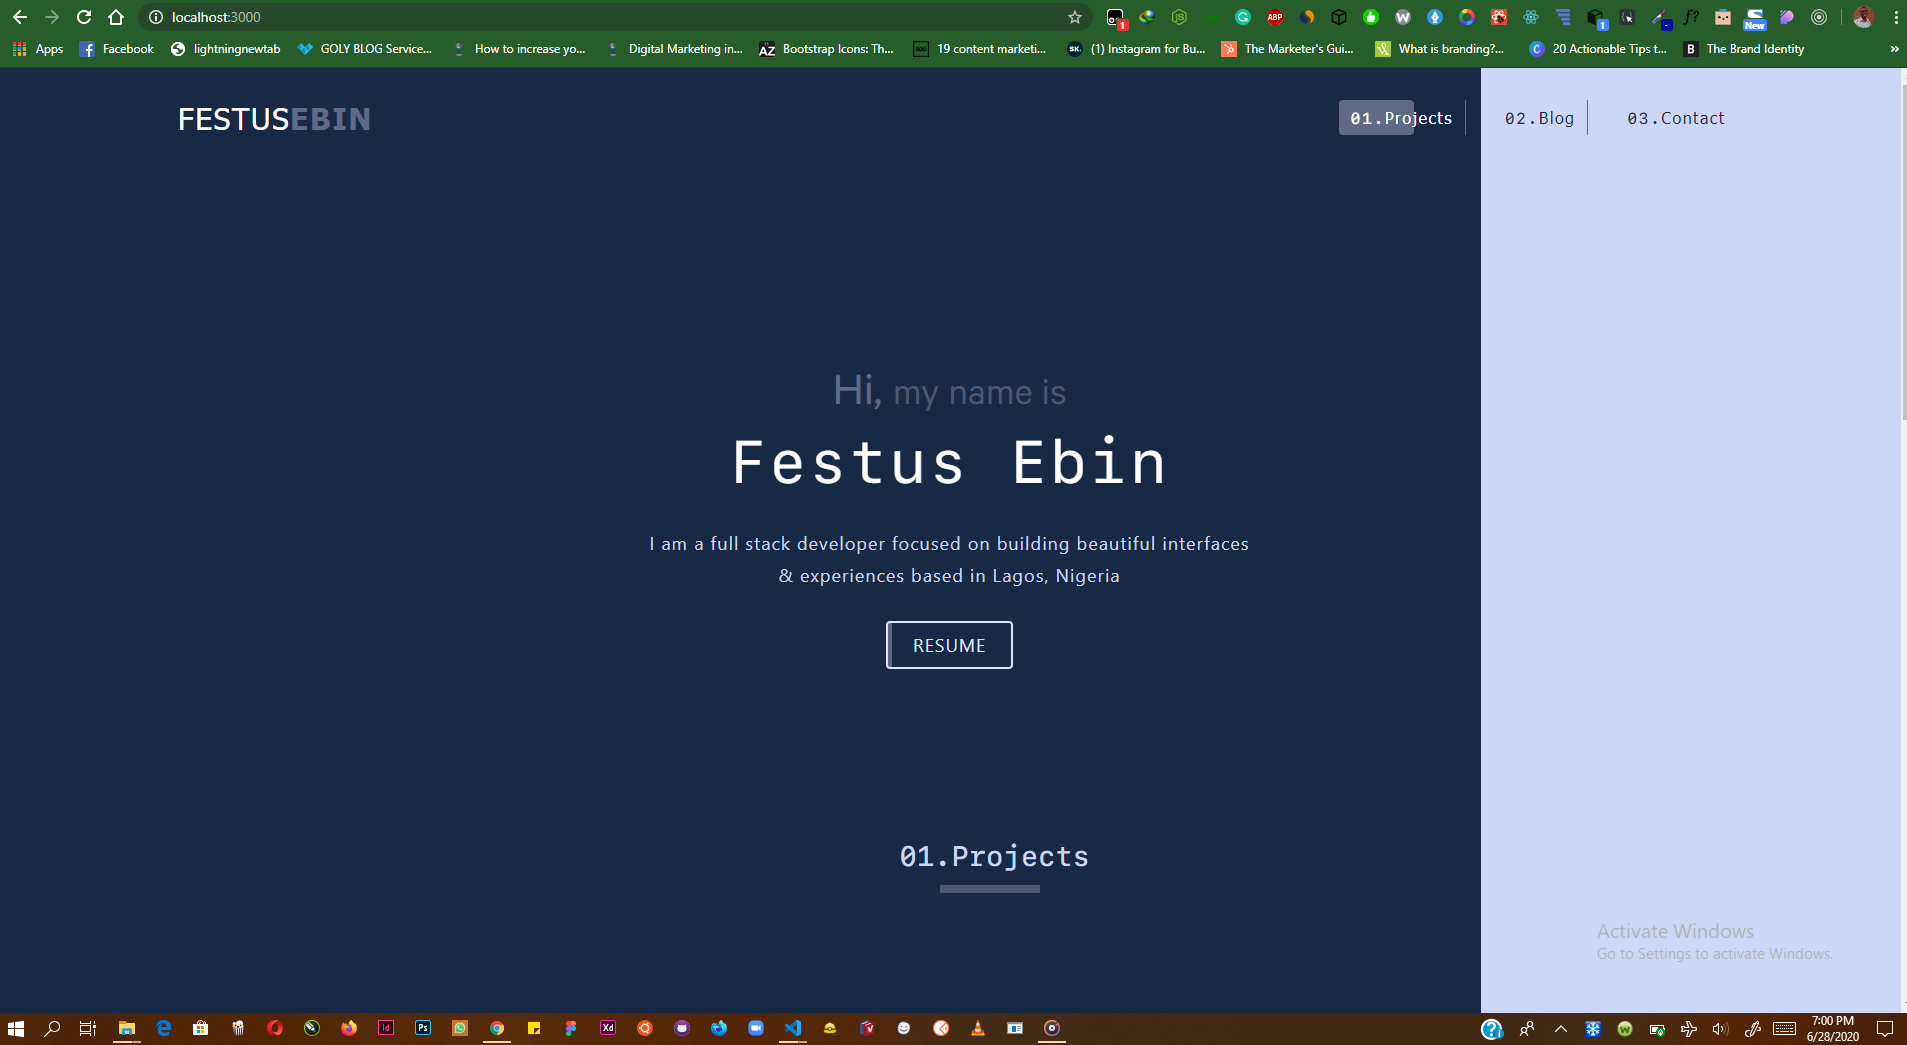
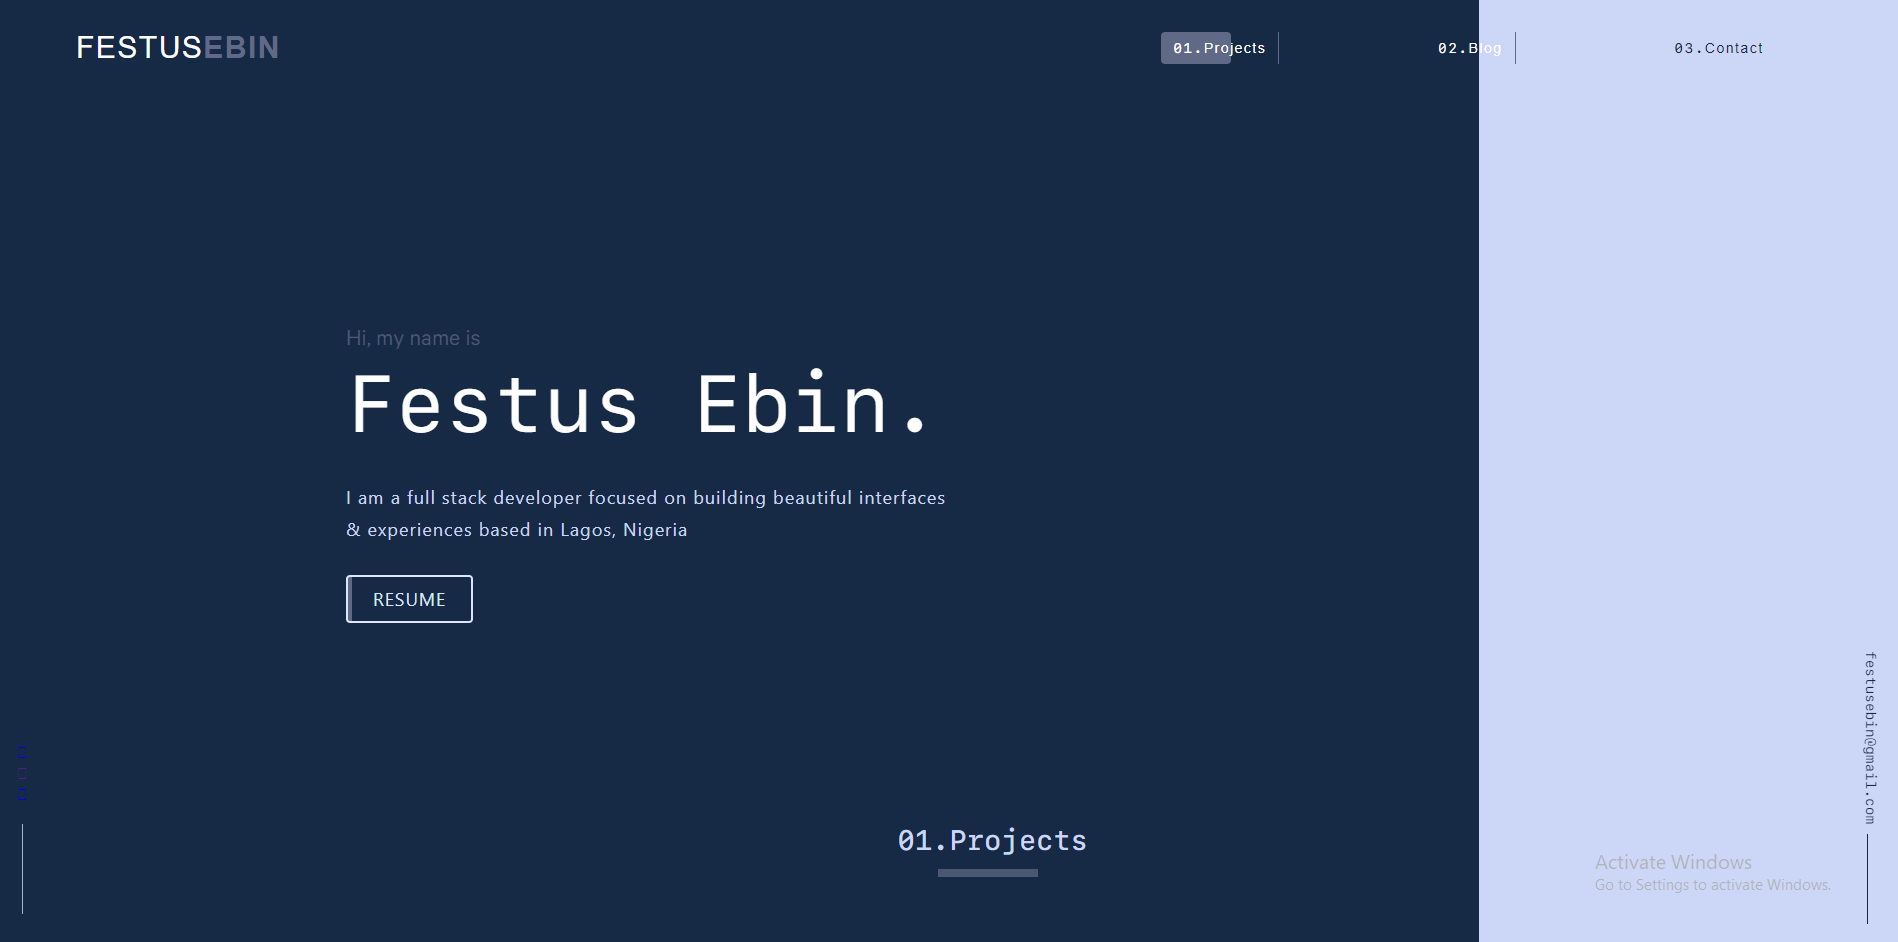
update src folder

diff --git a/src/assets/styles/_socials.scss b/src/assets/styles/_socials.scss
@@ -1,26 +1,51 @@
 .icons {
-  display: flex;
-  justify-content: space-between;
-  align-items: center;
-  padding: 50px 0;
+  position: fixed;
+  bottom: 30px;
+  left: 10px;
   
   .social-icons-container {
-    position: relative;
     display: flex;
-    
-    li {
-      list-style: none;
-      margin-right: 30px;
-      
-      img {
-        display: inline-block;
-        max-height: 32px;
-        transition: 0.5s ease-in-out;
-        color: #ccd6f6;
-      }
+    flex-direction: column;
+    align-items: center;
+    padding: 0;
+    margin: 0;
+    list-style: none;
 
-      &:hover img {
-        transform: translateY(-10px);
+    &::after {
+      content: '';
+      display: block;
+      width: 1px;
+      height: 90px;
+      margin: 0 auto;
+      background-color: #a8b2d1;
+    }
+    
+    li:last-of-type {
+      margin-bottom: 20px;
+
+      a {
+        padding: 10px;
+        &:hover,
+        &:focus {
+          transform: translateY(-3px);
+
+          i {
+            font-size: 28px;
+            color: #a8b2d1;
+          }
+
+          i.twitter:hover {
+            color: #1da1f2;
+          }
+
+          i.github:hover {
+            color: #24292e;
+          }
+
+          i.linkedin:hover {
+            color: #0077b5;
+          }
+        }
       }
     }
   }

diff --git a/src/components/SocialIcons/SocialIcons.jsx b/src/components/SocialIcons/SocialIcons.jsx
@@ -1,15 +1,12 @@
 import React from 'react';
-import LinkedinImage from '../../assets/images/linkedin.png';
-import GithubImage from '../../assets/images/facebook.png';
-import TwitterImage from '../../assets/images/twitter.png';
 
 
 const SocialIcons = () => (
   <div className='icons'>
     <ul className='social-icons-container'>
-      <li><a rel='noopener noreferrer' href="https://www.linkedin.com/in/festuebin" target='_blank'><img src={LinkedinImage} alt="linkedin" /></a></li>
-      <li><a rel='noopener noreferrer' href="https://github.com/festusebin" target='_blank'><img src={GithubImage} alt="github"/></a></li>
-      <li><a rel='noopener noreferrer' href="https://twitter.com/festusebin" target='_blank'><img src={TwitterImage} alt="twiter"/></a></li>
+      <li><a rel='noopener noreferrer' href="https://www.linkedin.com/in/festuebin" target='_blank'><i className='fa fa-linkedin linkedin'></i></a></li>
+      <li><a rel='noopener noreferrer' href="https://github.com/festusebin" target='_blank'><i className='fa fa-github github'></i></a></li>
+      <li><a rel='noopener noreferrer' href="https://twitter.com/festusebin" target='_blank'><i className='fa fa-twitter twitter'></i></a></li>
     </ul>
   </div>
 );

diff --git a/src/assets/styles/_hero.scss b/src/assets/styles/_hero.scss
@@ -30,19 +30,19 @@
 
   .heroText {
     position: relative;
-    max-width: 600px;
-    margin: 150px auto;
-    text-align: center;
+    //min-width: 600px;
+    margin: 130px 300px;
+    //text-align: center;
 
     .title {
-      font-size: 48px;
+      font-size: 24px;
       font-family: Calibre;
       font-weight: normal;
       font-style: normal;
-      color: #606a86;
+      color: #4c5772;
 
       span {
-        font-size: 40px;
+        font-size: 24px;
         color: #4c5772;
         font-family: Calibre;
       }
@@ -51,21 +51,21 @@
     .name {
       width: 100%;
       overflow: hidden;
-      font-size: 60px;
+      font-size: 80px;
       font-family: SF Mono, sans-serif;
       color: #ffffff;
       white-space: nowrap;
-      letter-spacing: 0.05em;
       animation: typing 3.5s steps(50, end);
     }
 
-    /*     .subtitle {
-      font-size: 32px;
+/*     .subtitle {
+      font-size: 56px;
       color: #ccd6f6;
-      letter-spacing: 0.07em;
+      letter-spacing: 0.02em;
     } */
 
     .desc {
+      max-width: 600px;
       width: 100%;
       overflow: hidden;
       font-size: 18px;

diff --git a/src/components/Hero/Hero.jsx b/src/components/Hero/Hero.jsx
@@ -6,18 +6,20 @@ import { Component } from 'react';
 
 class Hero extends Component {
   state = {
-    name: 'Festus Ebin',
+    name: 'Festus Ebin.',
+    subtitle: 'I build cool stuff for humans.',
     desc: 'I am a full stack developer focused on building beautiful interfaces & experiences based in Lagos, Nigeria'
   }
 
   render() {
-    const { name, desc } = this.state;
+    const { name, subtitle, desc } = this.state;
 
     return (
       <section id="Hero">
         <div className='heroText active'>
           <p className='title'>Hi, <span>my name is</span></p>
           <p className='name'>{name}</p>
+          {/*<p className='subtitle'>{subtitle}</p>*/}
           <p className='desc'>{desc}</p>
           <a rel='noopener noreferrer' href={Resume} target='_blank'>Resume</a>
         </div>

diff --git a/src/assets/styles/_sidebar.scss b/src/assets/styles/_sidebar.scss
@@ -1,0 +1,26 @@
+.sidebar {
+  position: fixed;
+  bottom: 30px;
+  right: 10px;
+
+  .sidebar-email {
+    color: #172a45;
+    writing-mode: vertical-rl;
+    text-orientation: mixed;
+    margin-right: 10px;
+    margin-bottom: 90px;
+    text-align: center;
+    font-family: SF Mono;
+    font-size: 14px;
+    
+    &::after {
+      content: '';
+      width: 1px;
+      height: 90px;
+      border-left: 1px solid #172a45;
+      position: absolute;
+      margin-right: 10px;
+      margin-top: 10px;
+    }
+  }
+}

diff --git a/src/App.js b/src/App.js
@@ -5,6 +5,7 @@ import SocialIcons from './components/SocialIcons/SocialIcons';
 import Portfolio from './components/Portfolio/Portfolio';
 //import Blog from './components/Blog/Blog';
 import Contact from './components/Contact/Contact';
+import Sidebar from './components/Sidebar/Sidebar'
 //import Footer from './components/Footer/Footer';
 
 
@@ -17,6 +18,7 @@ const App = () => {
       {/* <Blog /> */}
       <Contact />
       <SocialIcons />
+      <Sidebar />
       {/* <Footer /> */}
     </Fragment>
   );

diff --git a/src/components/Sidebar/Sidebar.jsx b/src/components/Sidebar/Sidebar.jsx
@@ -1,0 +1,10 @@
+import React from 'react';
+
+
+const Sidebar = () => (
+  <div className='sidebar'>
+    <p className='sidebar-email'>festusebin@gmail.com</p>
+  </div>
+);
+
+export default Sidebar;

diff --git a/src/assets/styles/_portfolio.scss b/src/assets/styles/_portfolio.scss
@@ -89,6 +89,7 @@
               i {
                 align-self: center;
                 margin-right: 7px;
+                font-size: 14px;
               }
 
               &:hover {

diff --git a/src/assets/styles/base.scss b/src/assets/styles/base.scss
@@ -13,3 +13,5 @@
 @import './contact';
 
 @import './footer';
+
+@import './sidebar';

diff --git a/README.md b/README.md
@@ -1,68 +1,9 @@
-This project was bootstrapped with [Create React App](https://github.com/facebook/create-react-app).
+# Portfolio Website - v1
 
-## Available Scripts
+<p align='center'>
+  <a href='https://app.netlify.com/sites/festusebin/deploys' target='_blank'>
+    <img src='https://api.netlify.com/api/v1/badges/bbe24f08-e7e1-43df-b0d6-727390844075/deploy-status' alt='Netlify status' />
+  </a>
+</p>
 
-In the project directory, you can run:
-
-### `yarn start`
-
-Runs the app in the development mode.<br />
-Open [http://localhost:3000](http://localhost:3000) to view it in the browser.
-
-The page will reload if you make edits.<br />
-You will also see any lint errors in the console.
-
-### `yarn test`
-
-Launches the test runner in the interactive watch mode.<br />
-See the section about [running tests](https://facebook.github.io/create-react-app/docs/running-tests) for more information.
-
-### `yarn build`
-
-Builds the app for production to the `build` folder.<br />
-It correctly bundles React in production mode and optimizes the build for the best performance.
-
-The build is minified and the filenames include the hashes.<br />
-Your app is ready to be deployed!
-
-See the section about [deployment](https://facebook.github.io/create-react-app/docs/deployment) for more information.
-
-### `yarn eject`
-
-**Note: this is a one-way operation. Once you `eject`, you can’t go back!**
-
-If you aren’t satisfied with the build tool and configuration choices, you can `eject` at any time. This command will remove the single build dependency from your project.
-
-Instead, it will copy all the configuration files and the transitive dependencies (webpack, Babel, ESLint, etc) right into your project so you have full control over them. All of the commands except `eject` will still work, but they will point to the copied scripts so you can tweak them. At this point you’re on your own.
-
-You don’t have to ever use `eject`. The curated feature set is suitable for small and middle deployments, and you shouldn’t feel obligated to use this feature. However we understand that this tool wouldn’t be useful if you couldn’t customize it when you are ready for it.
-
-## Learn More
-
-You can learn more in the [Create React App documentation](https://facebook.github.io/create-react-app/docs/getting-started).
-
-To learn React, check out the [React documentation](https://reactjs.org/).
-
-### Code Splitting
-
-This section has moved here: https://facebook.github.io/create-react-app/docs/code-splitting
-
-### Analyzing the Bundle Size
-
-This section has moved here: https://facebook.github.io/create-react-app/docs/analyzing-the-bundle-size
-
-### Making a Progressive Web App
-
-This section has moved here: https://facebook.github.io/create-react-app/docs/making-a-progressive-web-app
-
-### Advanced Configuration
-
-This section has moved here: https://facebook.github.io/create-react-app/docs/advanced-configuration
-
-### Deployment
-
-This section has moved here: https://facebook.github.io/create-react-app/docs/deployment
-
-### `yarn build` fails to minify
-
-This section has moved here: https://facebook.github.io/create-react-app/docs/troubleshooting#npm-run-build-fails-to-minify
+This is the first Personal Website of <a href='https://festusebin.netlify.app' target='_blank'>Festus Ebin</a> designed with <a href='https://www.figma.com/' target='_blank'>Figma</a> built with <a href='https://www.reactjs.org' target='_blank'>React</a> and hosted with <a href='https://www.netlify.com/' target='_blank'>Netlify</a>

diff --git a/CREATE-REACT-APP.md b/CREATE-REACT-APP.md
@@ -1,0 +1,68 @@
+This project was bootstrapped with [Create React App](https://github.com/facebook/create-react-app).
+
+## Available Scripts
+
+In the project directory, you can run:
+
+### `yarn start`
+
+Runs the app in the development mode.<br />
+Open [http://localhost:3000](http://localhost:3000) to view it in the browser.
+
+The page will reload if you make edits.<br />
+You will also see any lint errors in the console.
+
+### `yarn test`
+
+Launches the test runner in the interactive watch mode.<br />
+See the section about [running tests](https://facebook.github.io/create-react-app/docs/running-tests) for more information.
+
+### `yarn build`
+
+Builds the app for production to the `build` folder.<br />
+It correctly bundles React in production mode and optimizes the build for the best performance.
+
+The build is minified and the filenames include the hashes.<br />
+Your app is ready to be deployed!
+
+See the section about [deployment](https://facebook.github.io/create-react-app/docs/deployment) for more information.
+
+### `yarn eject`
+
+**Note: this is a one-way operation. Once you `eject`, you can’t go back!**
+
+If you aren’t satisfied with the build tool and configuration choices, you can `eject` at any time. This command will remove the single build dependency from your project.
+
+Instead, it will copy all the configuration files and the transitive dependencies (webpack, Babel, ESLint, etc) right into your project so you have full control over them. All of the commands except `eject` will still work, but they will point to the copied scripts so you can tweak them. At this point you’re on your own.
+
+You don’t have to ever use `eject`. The curated feature set is suitable for small and middle deployments, and you shouldn’t feel obligated to use this feature. However we understand that this tool wouldn’t be useful if you couldn’t customize it when you are ready for it.
+
+## Learn More
+
+You can learn more in the [Create React App documentation](https://facebook.github.io/create-react-app/docs/getting-started).
+
+To learn React, check out the [React documentation](https://reactjs.org/).
+
+### Code Splitting
+
+This section has moved here: https://facebook.github.io/create-react-app/docs/code-splitting
+
+### Analyzing the Bundle Size
+
+This section has moved here: https://facebook.github.io/create-react-app/docs/analyzing-the-bundle-size
+
+### Making a Progressive Web App
+
+This section has moved here: https://facebook.github.io/create-react-app/docs/making-a-progressive-web-app
+
+### Advanced Configuration
+
+This section has moved here: https://facebook.github.io/create-react-app/docs/advanced-configuration
+
+### Deployment
+
+This section has moved here: https://facebook.github.io/create-react-app/docs/deployment
+
+### `yarn build` fails to minify
+
+This section has moved here: https://facebook.github.io/create-react-app/docs/troubleshooting#npm-run-build-fails-to-minify
